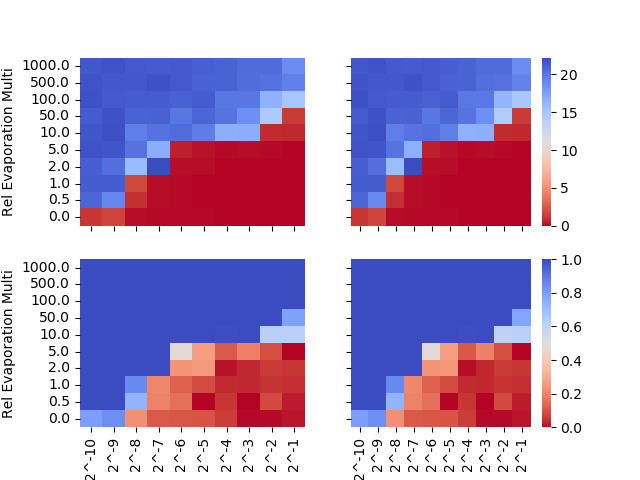
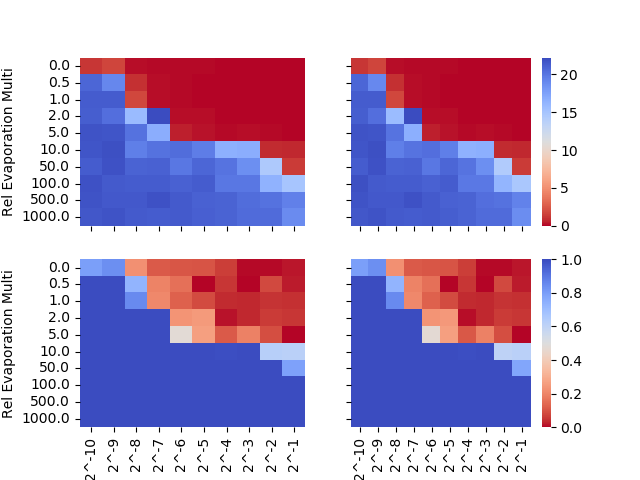
Corrected heatmap for blue corner at origin

diff --git a/heatmap.py b/heatmap.py
@@ -6,6 +6,7 @@ import glob
 
 path = r'./data' # use your path
 evapor_set = [0.0,0.5,1.0,2.0,5.0,10.0,50.0,100.0,500.0,1000.0]
+evapor_set.reverse()
 all_files = glob.glob(path + "/*_iter-0.csv")
 
 spec_data = np.zeros((10,10,4))
@@ -24,7 +25,7 @@ for i, e in enumerate(evapor_set):
     
 
 # #heatmap axis
-x = np.array([0,0.5,1.0,2.0,5.0,10,50,100,500,1000])
+x = np.array(evapor_set)
 # y = [str(n) for n in range(1,11)]
 y = np.array(['2^-'+str(n) for n in range(1,11)])
 x=x[::-1]
